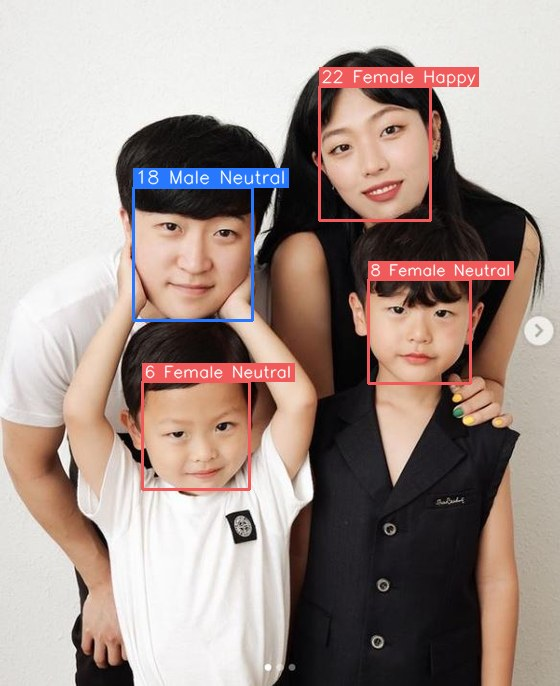
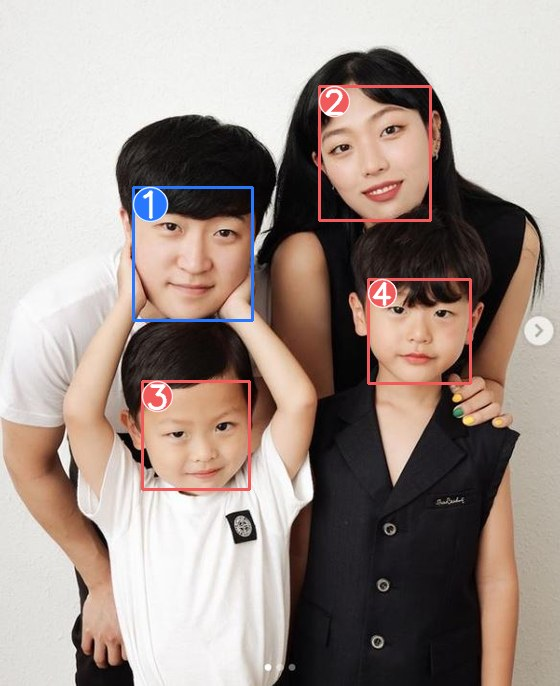
Numbered badges in demo, remove inconsistent 놀란 커플 README image
- inference.py draw(): numbered gender-colored badges instead of full text
  labels (fixes overlap on packed group photos; number matches card list)
- regenerate sample annotations with badges
- README: remove 놀란 커플 result image (predictions differ from ONNX demo)

diff --git a/hf-spaces/compute/inference.py b/hf-spaces/compute/inference.py
@@ -82,17 +82,23 @@ _FEMALE_BGR = (90, 90, 240)
 
 
 def draw(rgb, results):
-    """Draw boxes + labels on a copy of rgb (returns RGB uint8)."""
+    """Draw gender-colored boxes with a numbered badge per face (details go in
+    the side panel). A badge avoids the label overlap that full text captions
+    cause when faces are packed close together. Returns RGB uint8."""
     img = cv2.cvtColor(rgb, cv2.COLOR_RGB2BGR).copy()
-    for r in results:
+    for i, r in enumerate(results, 1):
         x1, y1, x2, y2 = r["box"]
         col = _MALE_BGR if r["gender"] == "Male" else _FEMALE_BGR
         cv2.rectangle(img, (x1, y1), (x2, y2), col, 2)
-        label = f'{r["age"]} {r["gender"]} {r["emotion"]}'
-        fs = max(0.4, min(0.8, (x2 - x1) / 200))
-        th = max(1, int(fs * 2))
+        # numbered badge at the box's top-left corner; number matches the card list
+        rad = int(max(9, min(18, (x2 - x1) / 7)))
+        cx, cy = x1 + rad, y1 + rad
+        cv2.circle(img, (cx, cy), rad, col, -1, cv2.LINE_AA)
+        cv2.circle(img, (cx, cy), rad, (255, 255, 255), 1, cv2.LINE_AA)
+        label = str(i)
+        fs = rad / 14.0
+        th = max(1, int(round(rad / 9)))
         (tw, tht), _ = cv2.getTextSize(label, cv2.FONT_HERSHEY_SIMPLEX, fs, th)
-        ytop = max(0, y1 - tht - 6)
-        cv2.rectangle(img, (x1, ytop), (x1 + tw + 4, y1), col, -1)
-        cv2.putText(img, label, (x1 + 2, y1 - 4), cv2.FONT_HERSHEY_SIMPLEX, fs, (255, 255, 255), th, cv2.LINE_AA)
+        cv2.putText(img, label, (cx - tw // 2, cy + tht // 2),
+                    cv2.FONT_HERSHEY_SIMPLEX, fs, (255, 255, 255), th, cv2.LINE_AA)
     return cv2.cvtColor(img, cv2.COLOR_BGR2RGB)

diff --git a/README.md b/README.md
@@ -51,7 +51,6 @@
 ![2](https://github.com/buzziru/DL_FACE_REC/assets/152848901/2c635285-4a29-4b2d-8b38-38cc156279d6)  
 ![3](https://github.com/buzziru/DL_FACE_REC/assets/152848901/3b9c2eea-037a-4b91-8790-f354be7cb5bf)  
 ![4](https://github.com/buzziru/DL_FACE_REC/assets/152848901/5af51417-0161-4a8f-9092-dca538cd41db)  
-![5](https://github.com/buzziru/DL_FACE_REC/assets/152848901/5911cdc0-436f-47f9-8555-14f7f1e88fd0)  
 ![6](https://github.com/buzziru/DL_FACE_REC/assets/152848901/2ddff2f8-0167-4045-ae06-04883024a58f)  
 ![7](https://github.com/buzziru/DL_FACE_REC/assets/152848901/6f86377c-f2c5-415b-bfb9-934da029e813)  
 ![8](https://github.com/buzziru/DL_FACE_REC/assets/152848901/453e8c4c-9238-4124-a28b-b2dcbb22fcb6)  
